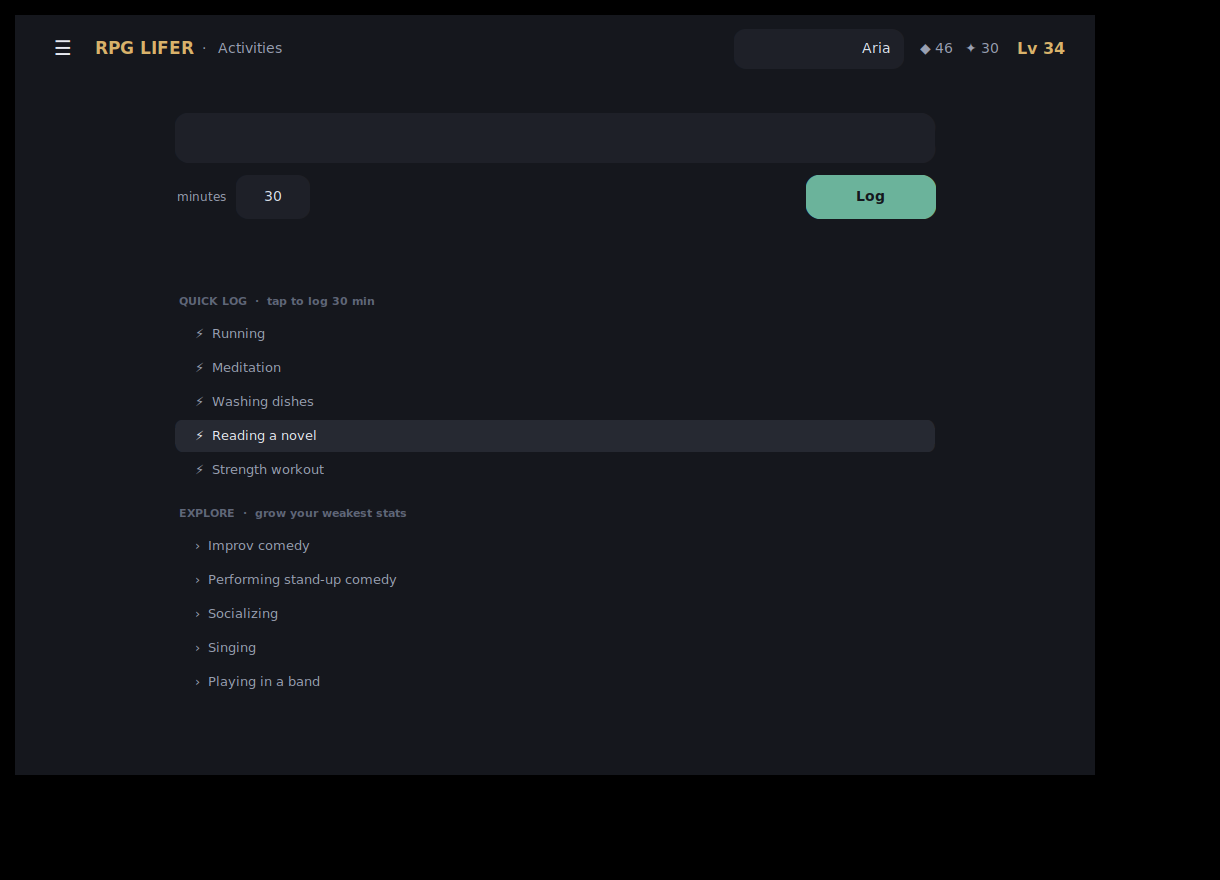
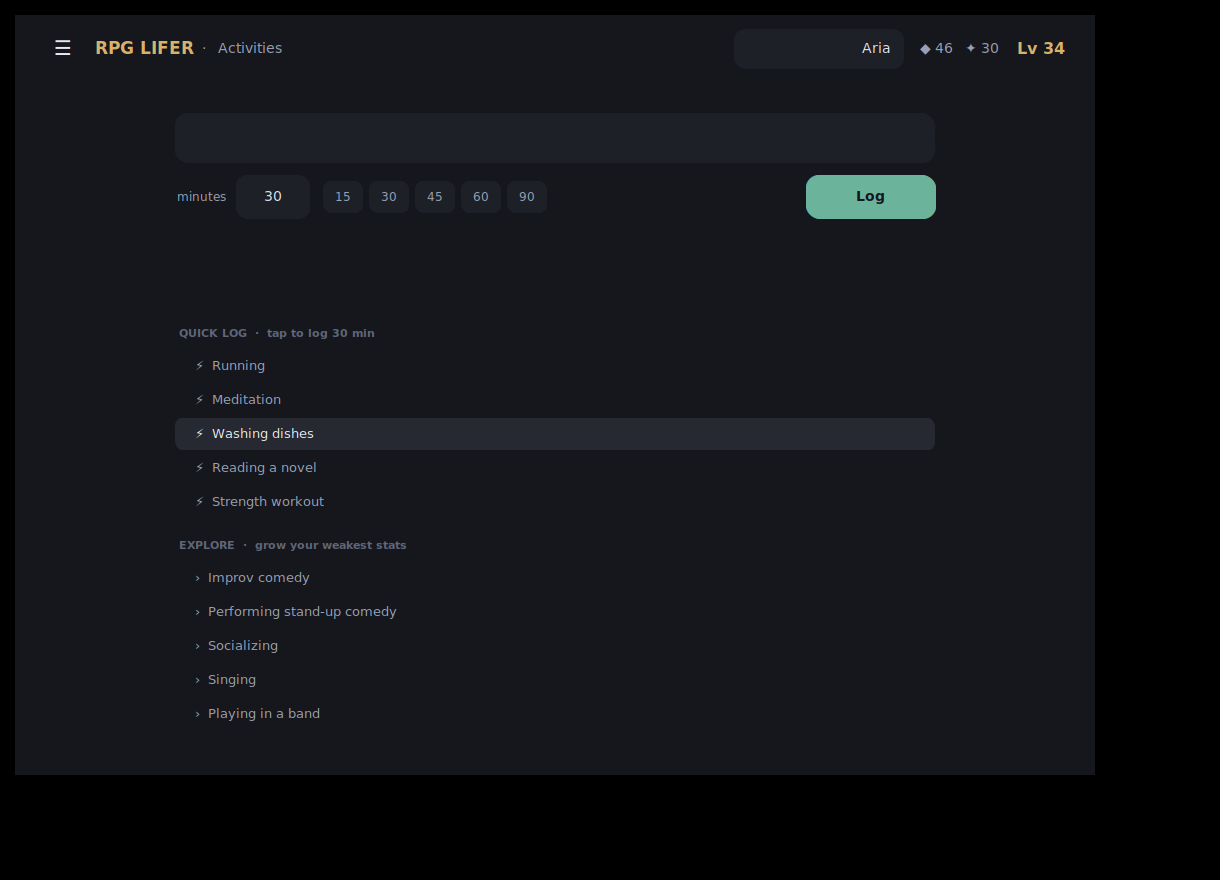
Iteration 24: minute quick-pick chips + final full-build audit
Add 15/30/45/60/90-minute preset chips next to the minutes field so logging is
one tap for common durations (they also update the "tap to log N min" quick-log
header live). Combined with quick-log recents, the core habit loop is now very
low-friction.

Also ran a final extended audit on the full 940-activity build: 80 days of play
+ Arena (with a boss) + 27 vault opens + gear + save/load roundtrip + derived
consistency + schema-1 back-compat + all achievement predicates — 0 failures.

UI-only. 115 tests passing.

Claude-Session: https://claude.ai/code/session_01WsnuZ536J4UZdP5AajkuAF

Changed region(s): [[0.1557, 0.4909, 0.3426, 0.8284], [0.1557, 0.3375, 0.3115, 0.4602]]

diff --git a/rpglifer/ui_tk.py b/rpglifer/ui_tk.py
@@ -499,6 +499,14 @@ class ActivitiesView(ctk.CTkFrame):
         ctk.CTkEntry(row, textvariable=self.minutes_var, width=74, height=44,
                      corner_radius=12, fg_color=SURFACE, border_width=0,
                      justify="center", font=fonts["search"]).pack(side="left")
+        chips = ctk.CTkFrame(row, fg_color="transparent")
+        chips.pack(side="left", padx=(10, 0))
+        for m in (15, 30, 45, 60, 90):
+            ctk.CTkButton(chips, text=str(m), width=40, height=32, corner_radius=9,
+                          fg_color=SURFACE, hover_color=SURFACE_2, text_color=MUTED,
+                          font=fonts["small"],
+                          command=lambda m=m: self._set_minutes(m)).pack(side="left",
+                                                                         padx=3)
         self.log_btn = ctk.CTkButton(row, text="Log", command=self.do_log, width=130,
                                      height=44, corner_radius=14, fg_color=TEAL,
                                      hover_color=TEAL_HOVER, text_color=BG,
@@ -513,6 +521,11 @@ class ActivitiesView(ctk.CTkFrame):
         self.list_head.pack(fill="x", pady=(16, 6))
         self.list_frame = ctk.CTkFrame(col, fg_color="transparent")
         self.list_frame.pack(fill="x")
+
+    def _set_minutes(self, m):
+        self.minutes_var.set(str(m))
+        if not self.activity_var.get().strip():
+            self._show_idle()  # refresh the "tap to log N min" quick-log header
 
     def _update_boost(self):
         m = self.app.character.xp_multiplier()
